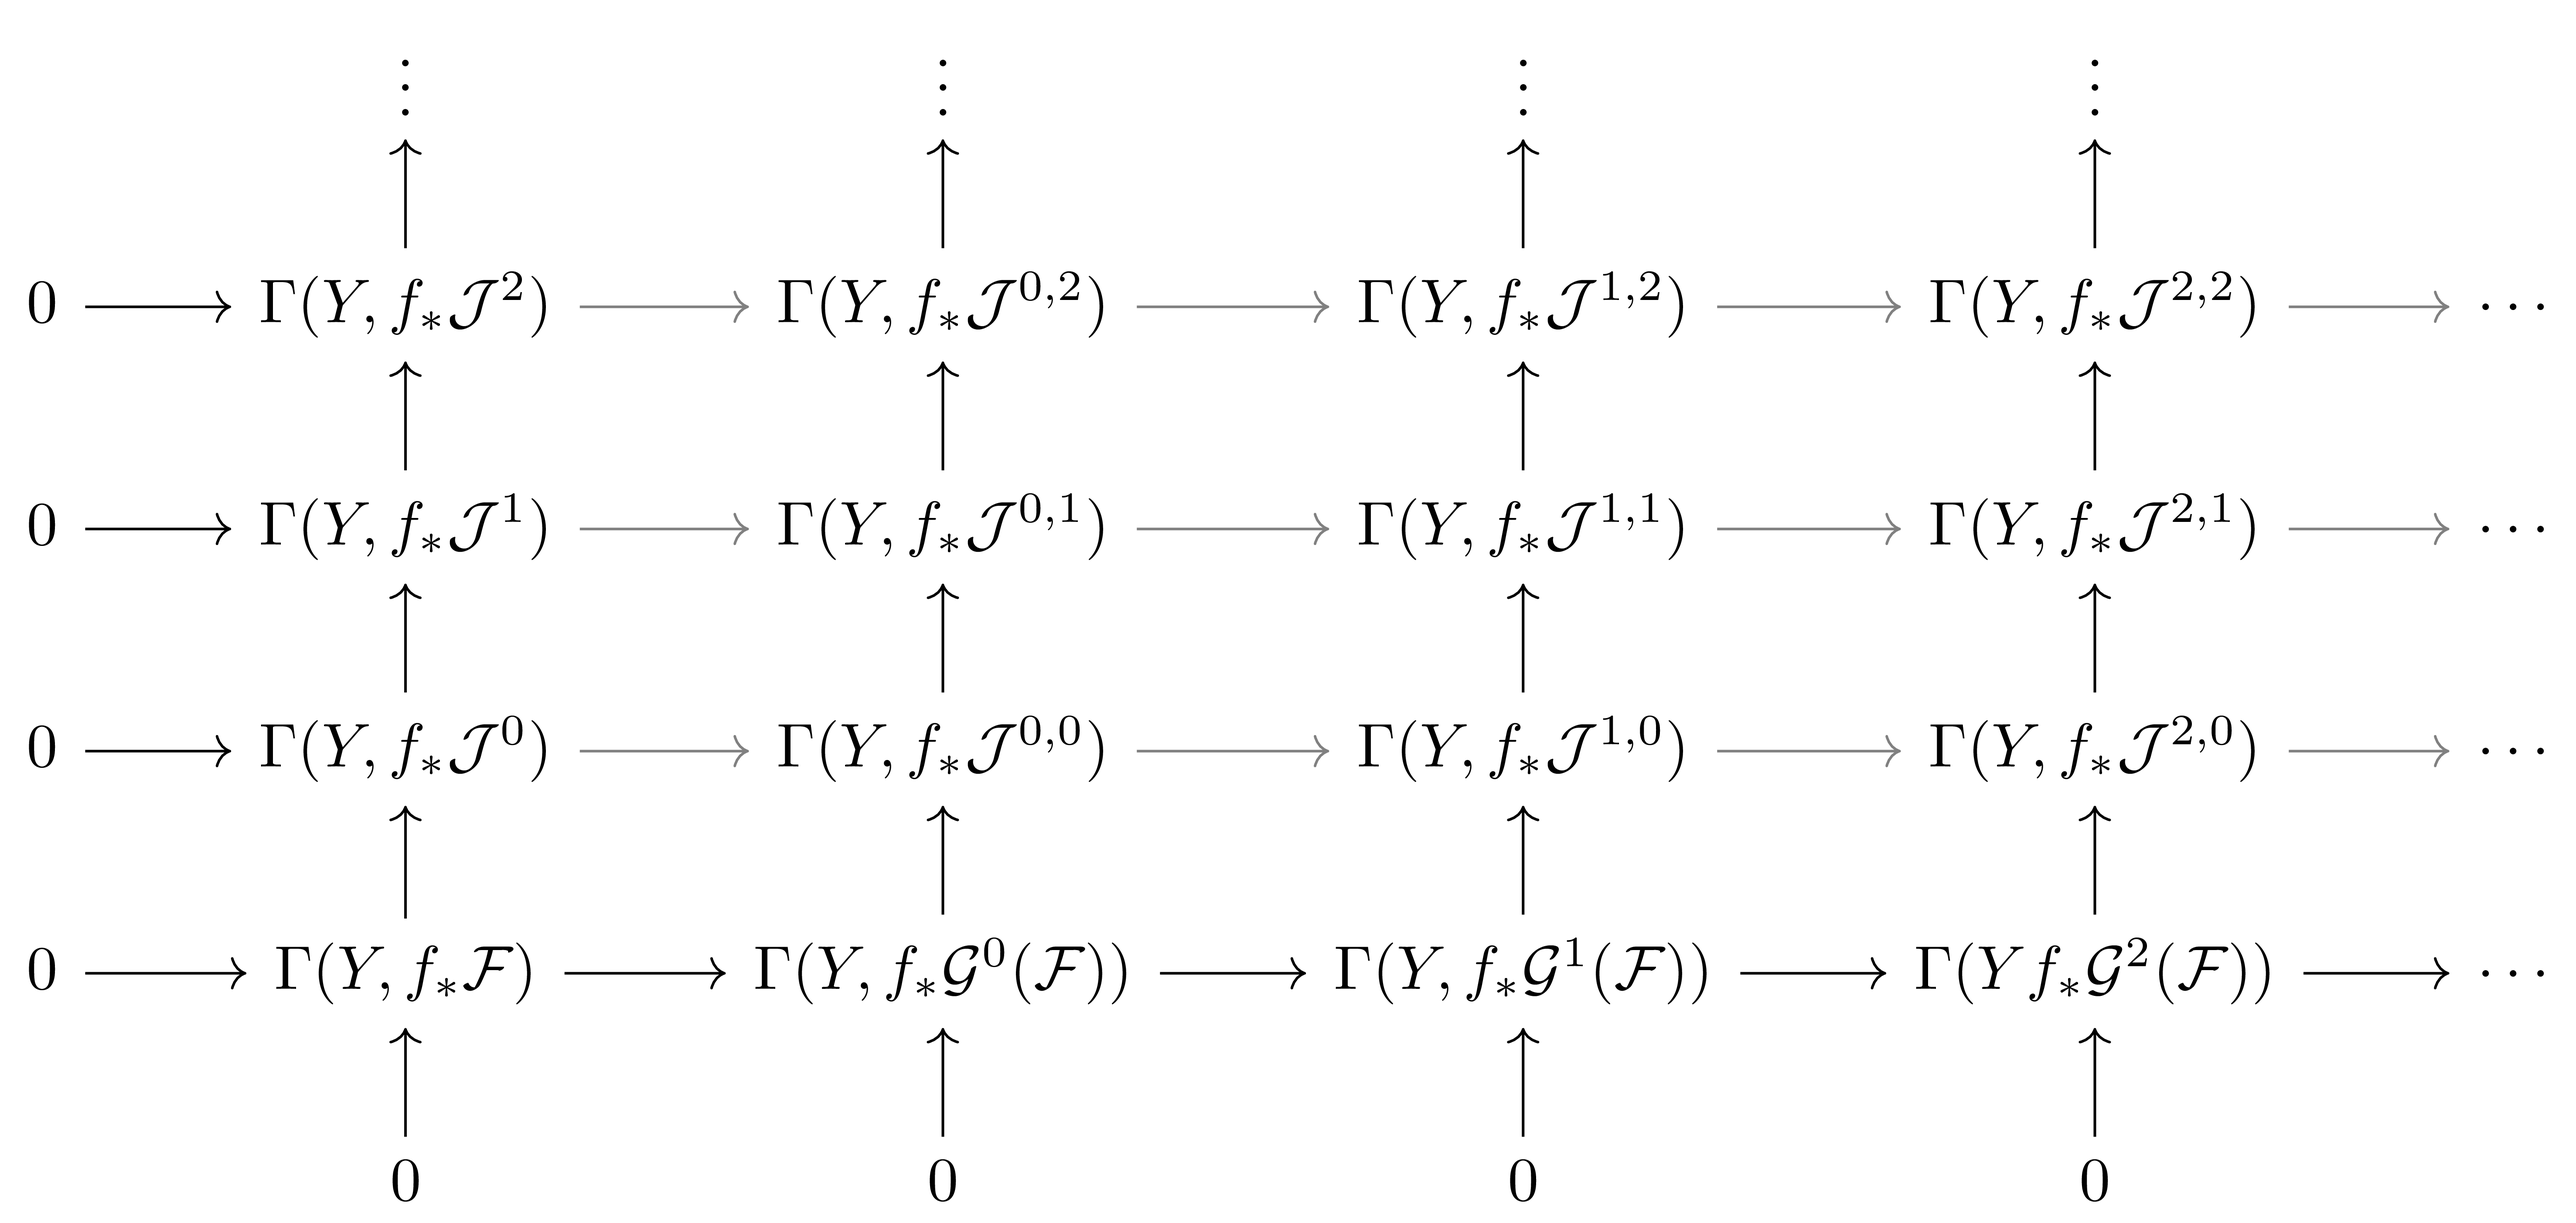
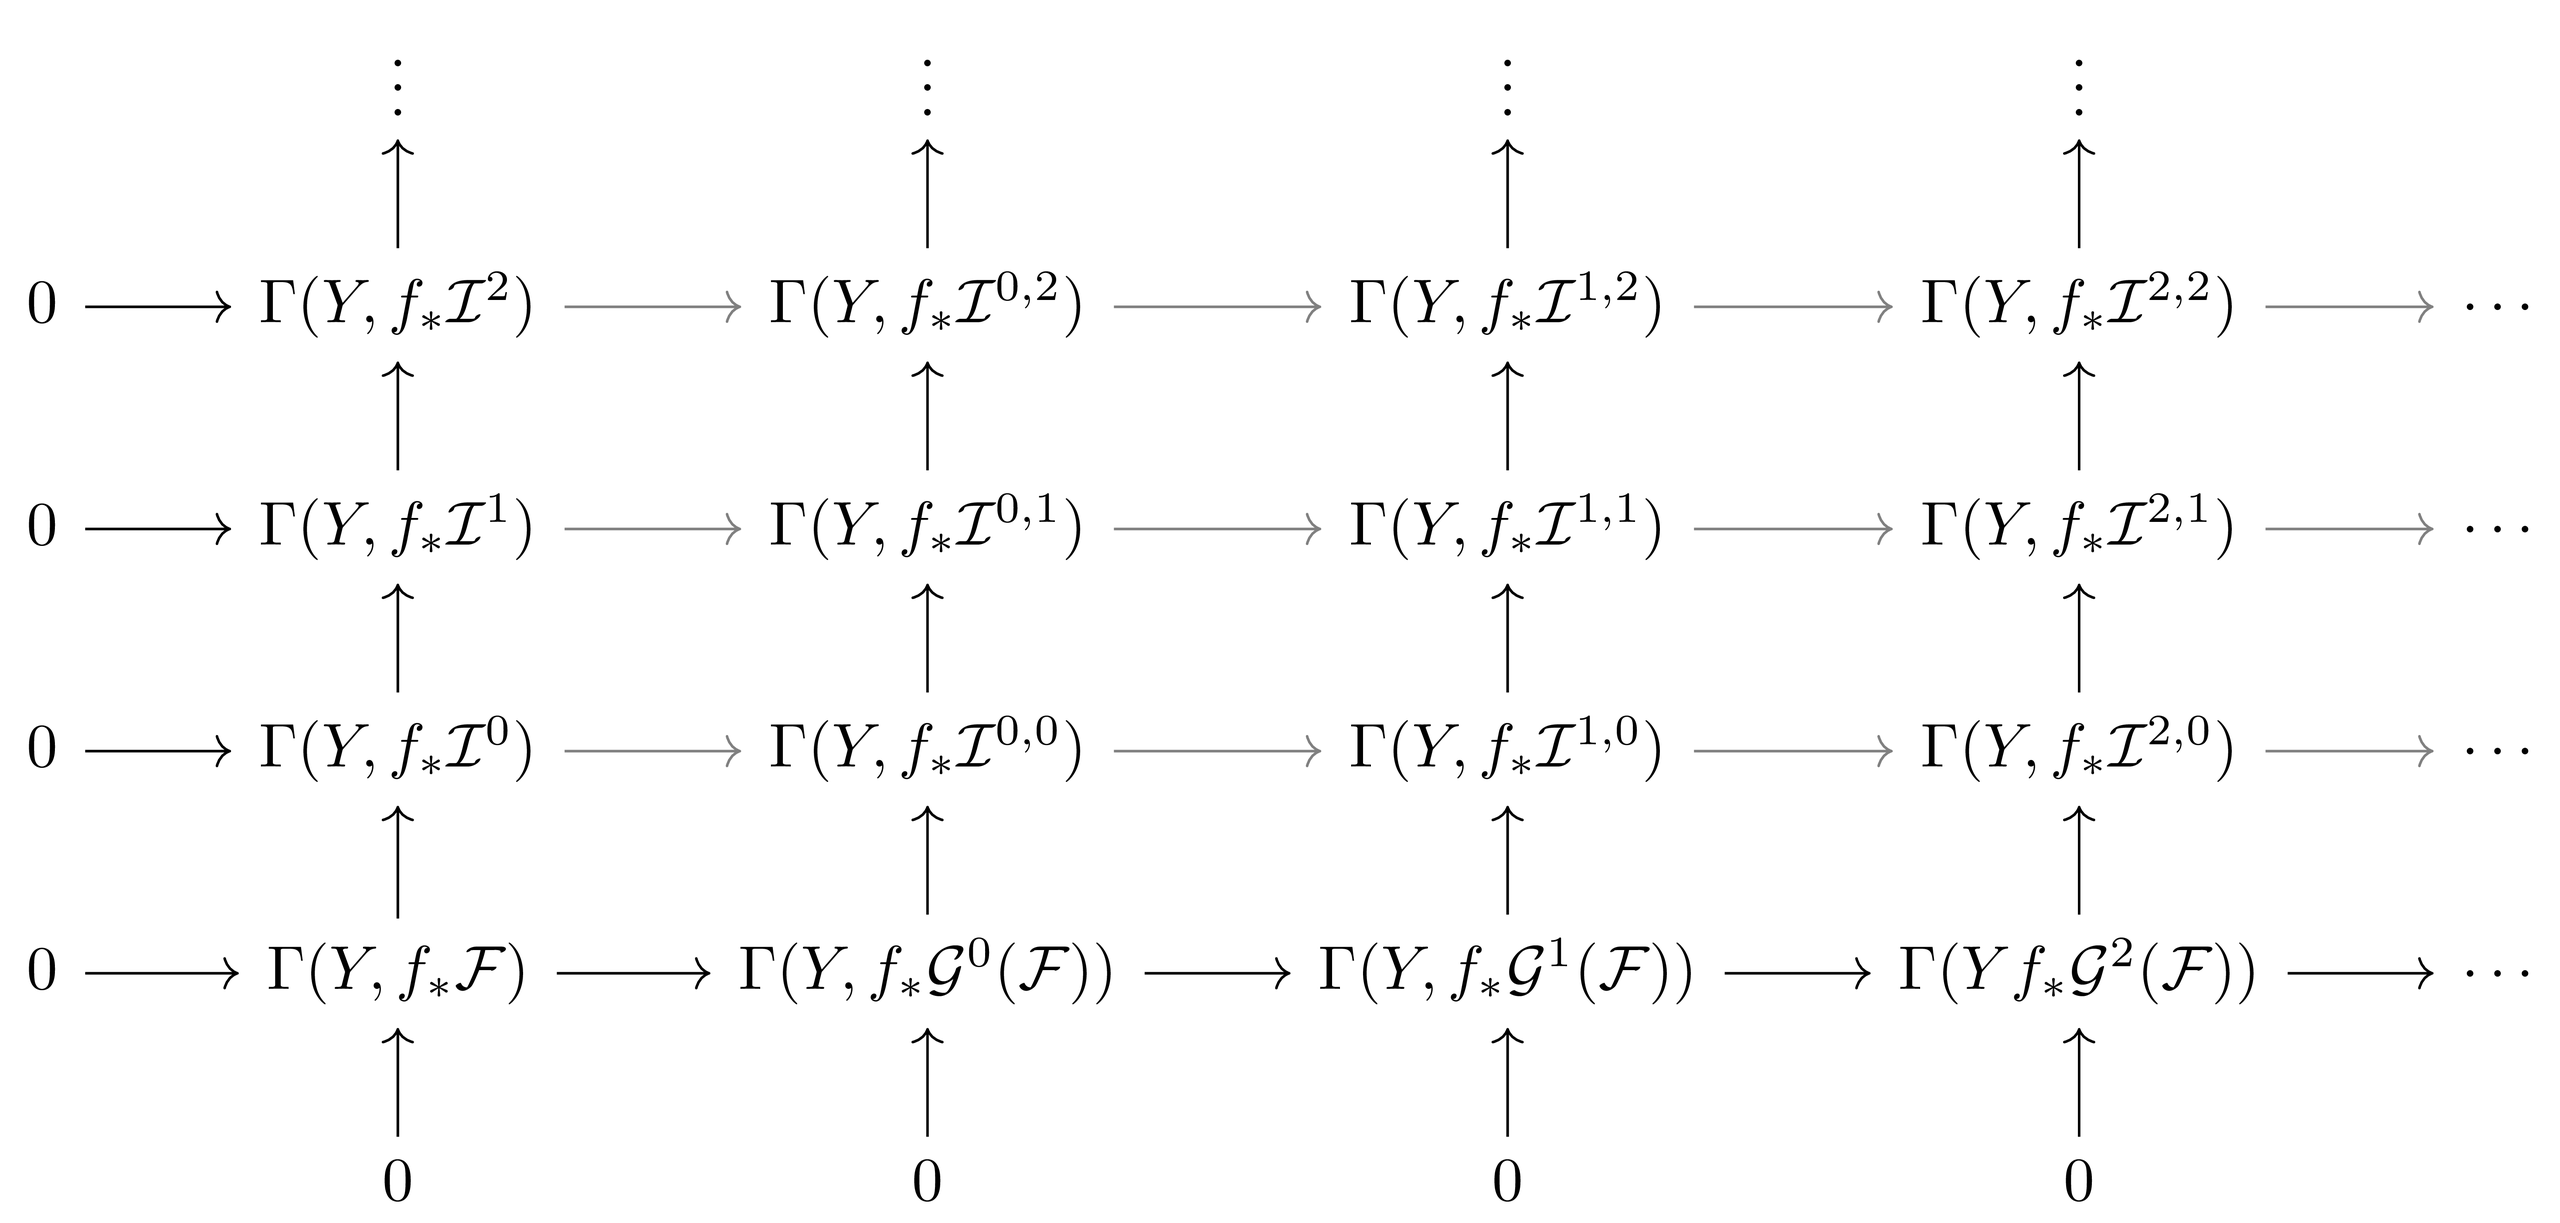
Openclaw Autosave
This is an autosave from OpenClaw. Major changes will be recorded manually with detailed commit message.

diff --git a/assets/diagrams/Math/Algebraic_Geometry/Algebraic_geometry.tex b/assets/diagrams/Math/Algebraic_Geometry/Algebraic_geometry.tex
@@ -10,9 +10,9 @@
 %% Leray_double_sequence-1 (Sheaf_Cohomology-3.png)
 \begin{tikzcd}
 	& \vdots & \vdots & \vdots & \vdots & \\
-	0 & {\Gamma(Y,f_\ast\mathcal{J}^{2})} & {\Gamma(Y,f_\ast\mathcal{J}^{0,2})} & {\Gamma(Y,f_\ast\mathcal{J}^{1,2})} & {\Gamma(Y,f_\ast\mathcal{J}^{2,2})} & \cdots \\
-	0 & {\Gamma(Y,f_\ast\mathcal{J}^{1})} & {\Gamma(Y,f_\ast\mathcal{J}^{0,1})} & {\Gamma(Y,f_\ast\mathcal{J}^{1,1})} & {\Gamma(Y,f_\ast\mathcal{J}^{2,1})} & \cdots \\
-	0 & {\Gamma(Y,f_\ast\mathcal{J}^{0})} & {\Gamma(Y,f_\ast\mathcal{J}^{0,0})} & {\Gamma(Y,f_\ast\mathcal{J}^{1,0})} & {\Gamma(Y,f_\ast\mathcal{J}^{2,0})} & \cdots \\
+	0 & {\Gamma(Y,f_\ast\mathcal{I}^{2})} & {\Gamma(Y,f_\ast\mathcal{I}^{0,2})} & {\Gamma(Y,f_\ast\mathcal{I}^{1,2})} & {\Gamma(Y,f_\ast\mathcal{I}^{2,2})} & \cdots \\
+	0 & {\Gamma(Y,f_\ast\mathcal{I}^{1})} & {\Gamma(Y,f_\ast\mathcal{I}^{0,1})} & {\Gamma(Y,f_\ast\mathcal{I}^{1,1})} & {\Gamma(Y,f_\ast\mathcal{I}^{2,1})} & \cdots \\
+	0 & {\Gamma(Y,f_\ast\mathcal{I}^{0})} & {\Gamma(Y,f_\ast\mathcal{I}^{0,0})} & {\Gamma(Y,f_\ast\mathcal{I}^{1,0})} & {\Gamma(Y,f_\ast\mathcal{I}^{2,0})} & \cdots \\
 	0 & {\Gamma(Y,f_\ast\mathcal{F})} & {\Gamma(Y,f_\ast\mathcal{G}^0(\mathcal{F}))} & {\Gamma(Y,f_\ast\mathcal{G}^1(\mathcal{F}))} & {\Gamma(Yf_\ast\mathcal{G}^2(\mathcal{F}))} & \cdots \\
 	& 0 & 0 & 0 & 0
 	\arrow[from=2-1, to=2-2]
@@ -615,9 +615,9 @@
 % Leray_double_sequence (Sheaf_Cohomology-2.png)
 \begin{tikzcd}
 	& \vdots & \vdots & \vdots & \vdots & \\
-	0 & {\mathcal{J}^{2}} & {\mathcal{J}^{0,2}} & {\mathcal{J}^{1,2}} & {\mathcal{J}^{2,2}} & \cdots \\
-	0 & {\mathcal{J}^{1}} & {\mathcal{J}^{0,1}} & {\mathcal{J}^{1,1}} & {\mathcal{J}^{2,1}} & \cdots \\
-	0 & {\mathcal{J}^{0}} & {\mathcal{J}^{0,0}} & {\mathcal{J}^{1,0}} & {\mathcal{J}^{2,0}} & \cdots \\
+	0 & {\mathcal{I}^{2}} & {\mathcal{I}^{0,2}} & {\mathcal{I}^{1,2}} & {\mathcal{I}^{2,2}} & \cdots \\
+	0 & {\mathcal{I}^{1}} & {\mathcal{I}^{0,1}} & {\mathcal{I}^{1,1}} & {\mathcal{I}^{2,1}} & \cdots \\
+	0 & {\mathcal{I}^{0}} & {\mathcal{I}^{0,0}} & {\mathcal{I}^{1,0}} & {\mathcal{I}^{2,0}} & \cdots \\
 	0 & {\mathcal{F}} & {\mathcal{G}^0(\mathcal{F})} & {\mathcal{G}^1(\mathcal{F})} & {\mathcal{G}^2(\mathcal{F})} & \cdots \\
 	& 0 & 0 & 0 & 0
 	\arrow[from=2-1, to=2-2]

diff --git a/_posts/Math/Algebraic_Geometry/ko/2026-04-05-Sheaf_Cohomology.md b/_posts/Math/Algebraic_Geometry/ko/2026-04-05-Sheaf_Cohomology.md
@@ -419,9 +419,9 @@ $$H^i(X, \mathcal{F})\cong H^{i-1}(X, \mathcal{Q})$$
 
 <div class="proposition" markdown="1">
 
-<ins id="prop17">**명제 17 (Acyclic Resolution)**</ins> $$\Gamma(X, -)$$-acyclic resolution $$0 \to \mathcal{F} \to A^0 \to A^1 \to \cdots$$이 주어지면
+<ins id="prop17">**명제 17 (Acyclic Resolution)**</ins> $$\Gamma(X, -)$$-acyclic resolution $$0 \to \mathcal{F} \to \mathcal{A}^0 \to \mathcal{A}^1 \to \cdots$$이 주어지면
 
-$$H^q(\Gamma(X, A^\bullet)) \cong H^q(X, \mathcal{F})$$
+$$H^q(\Gamma(X, \mathcal{A}^\bullet)) \cong H^q(X, \mathcal{F})$$
 
 이 모든 $$q \geq 0$$에 대해 성립한다.
 
@@ -464,13 +464,17 @@ $$0\rightarrow f_\ast \mathcal{G}^p(\mathcal{F})\rightarrow \mathcal{I}^{p,\bull
 
 을 택할 수 있다. 
 
-이제 이 double complex에 $$f_\ast:\Sh(X)\rightarrow \Sh(Y)$$와 $$\Gamma(Y,-)$$를 순서대로 취하여 다음의 double complex
+이제 이 double complex
+
+![Leray_original](/assets/images/Math/Algebraic_Geometry/Sheaf_Cohomology-2.png){:style="width:30em" class="invert" .align-center}
+
+에 $$f_\ast:\Sh(X)\rightarrow \Sh(Y)$$와 $$\Gamma(Y,-)$$를 순서대로 취하여 다음의 double complex
 
 $$\mathcal{J}^{p,q}=\Gamma(Y, f_\ast\mathcal{I}^{p,q})$$
 
 를 얻자. 우리는 $$f_\ast$$가 injective sheaf들에 대해서는 exact임을 직접 계산을 통해 확인할 수 있으므로, 이렇게 얻어진 double complex
 
-img
+![Leray_pushed](/assets/images/Math/Algebraic_Geometry/Sheaf_Cohomology-3.png){:style="width:40em" class="invert" .align-center}
 
 는 다음과 같은 성질을 가진다.
 
